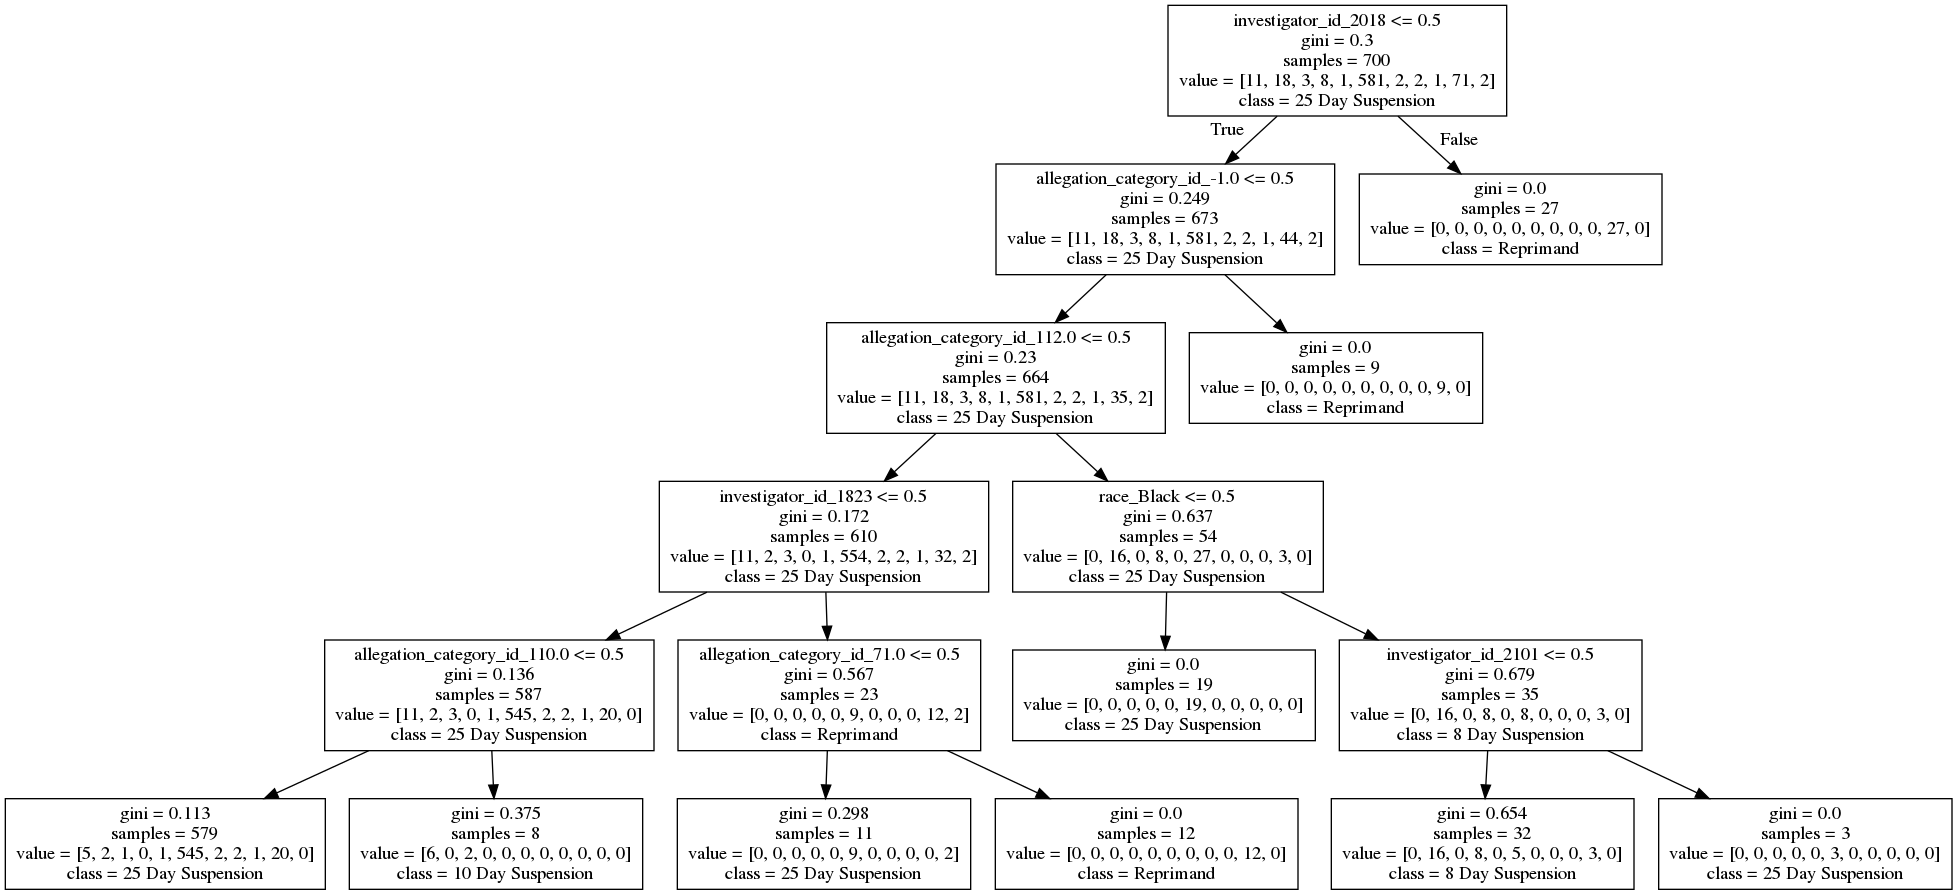
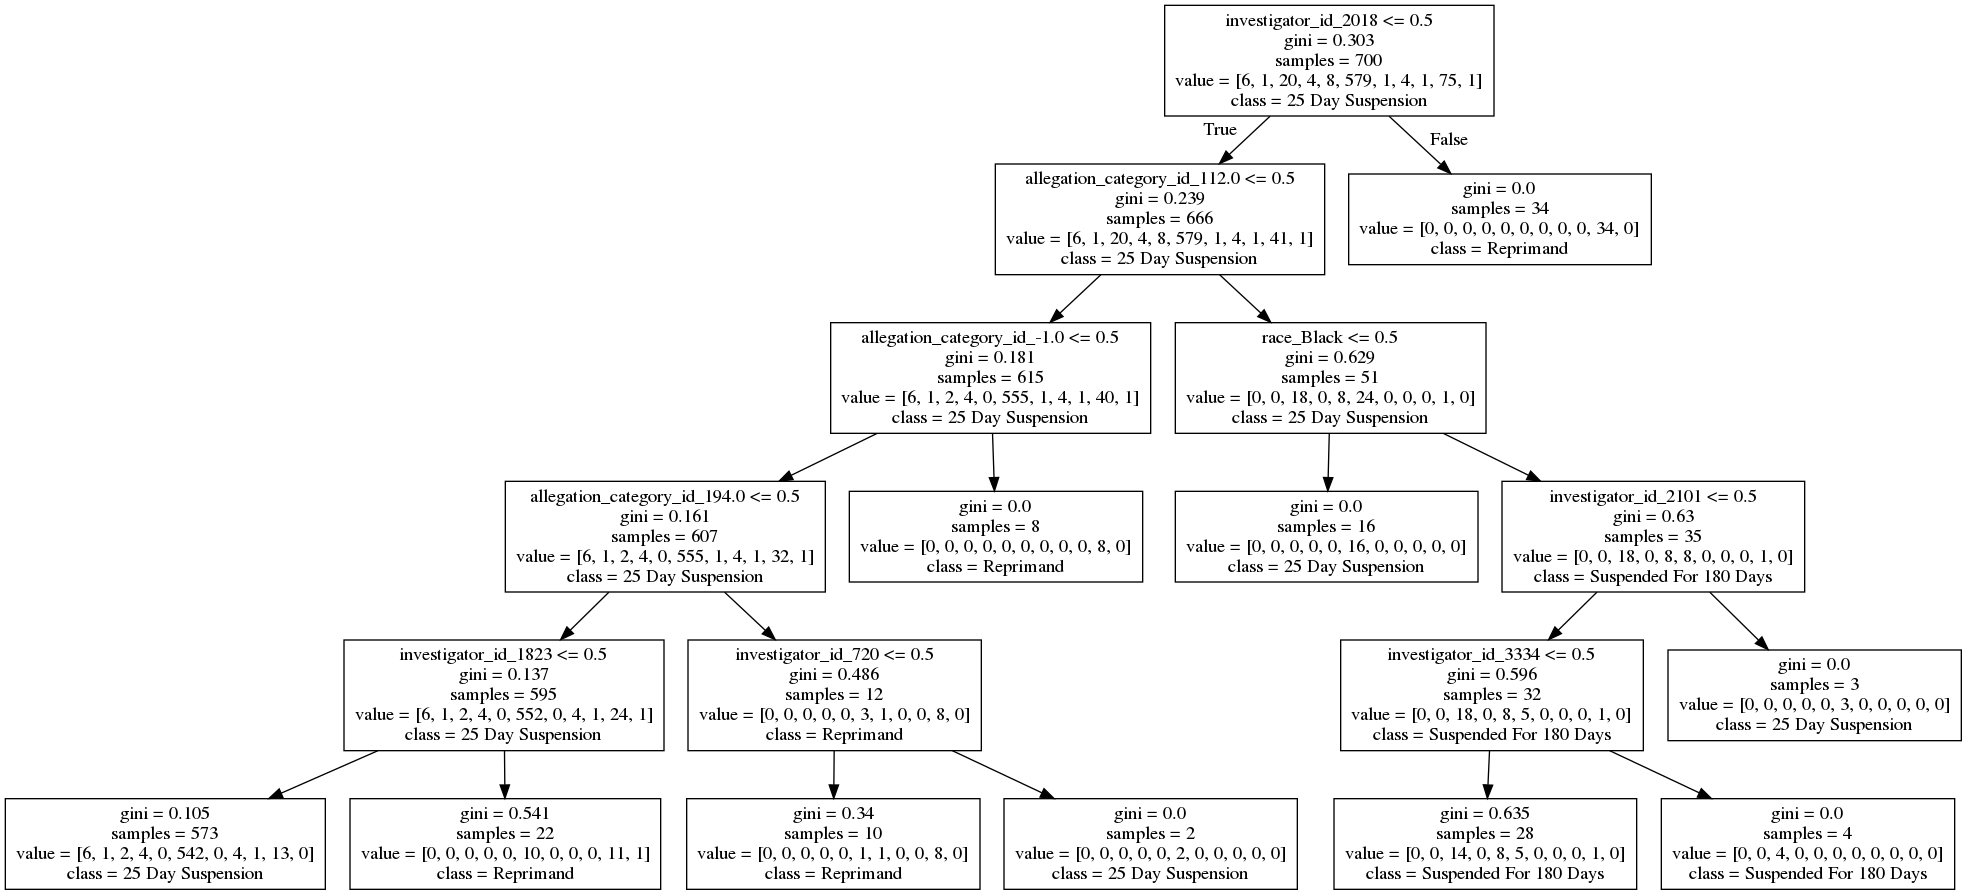
nothing important

diff --git a/checkpoint5/code/question2.py b/checkpoint5/code/question2.py
@@ -36,7 +36,6 @@ final_outcome_list = ['10 Day Suspension', '8 Day Suspension', 'Suspended For 18
 most_frequent_investigators_index = data['investigator_id'].value_counts().index[:1000]
 data = data.iloc[most_frequent_investigators_index]
 final_data = pd.get_dummies(data, columns=['race', 'allegation_category_id', 'investigator_id'])
-print(final_data.columns)
 final_data = final_data.fillna(0)
 train, test = train_test_split(final_data, test_size= 0.3)
 X_train = train.drop(columns=['allegation_id', 'final_outcome','current_star'])
@@ -91,3 +90,54 @@ graph = pydotplus.graph_from_dot_data(dot_data)
 Image(graph.create_png())
 # Create PNG
 graph.write_png("../visualization/tree_vis_question2.png")
+
+
+
+####delete No Action Taken and Unknown rows
+print("\n\ndelete No Action Taken and Unknown rows and do another test\n\n")
+data = pd.read_csv("../data/data_question2.csv")
+data['race'] = data['race'].fillna("lost")
+data['final_outcome'] = data['final_outcome'].fillna("Unknown")
+data['allegation_category_id'] = data['allegation_category_id'].fillna(-1)
+data['investigator_id'] = data['investigator_id'].fillna(-1)
+data = data[(data['final_outcome'] != 'Unknown') & (data['final_outcome']!= 'No Action Taken')]
+
+most_frequent_investigators_index = data['investigator_id'].value_counts().index[:1000]
+data = data.iloc[most_frequent_investigators_index]
+final_data = pd.get_dummies(data, columns=['race', 'allegation_category_id', 'investigator_id'])
+print(final_data.columns)
+final_data = final_data.fillna(0)
+train, test = train_test_split(final_data, test_size= 0.3)
+X_train = train.drop(columns=['allegation_id', 'final_outcome','current_star'])
+Y_train = train['final_outcome']
+X_test = test.drop(columns=['allegation_id',  'final_outcome','current_star'])
+Y_test = test['final_outcome']
+
+
+#we have tested it that we can achieve ~90% final outcome prediction accuracy using race, allegation category and investigator id
+# estimators = [10, 20, 30, 40, 50, 60, 70, 80]
+# for i in estimators:
+clf = DecisionTreeClassifier(random_state=10, max_depth=100)
+#clf = RandomForestClassifier(random_state= 10, n_estimators=20)
+clf.fit(X_train, Y_train)
+prediction = clf.predict(X_test)
+print("disciplinary action prediction scores with 'race', 'allegation_category_id' and 'investigator_id' are :")
+print("training accuracy score is {}".format(clf.score(X_train, Y_train)))
+print("accuracy is {}, F1 score is {}".format(accuracy_score(prediction, Y_test), f1_score(prediction, Y_test, average='weighted', zero_division=True)))
+print("precision score is {}, recall score is {}".format(precision_score(prediction, Y_test, average='weighted', zero_division=True),recall_score(prediction, Y_test, average='weighted', zero_division=True)))
+print("\n")
+#print(prediction, Y_test)
+columns = final_data.drop(columns=['allegation_id', 'final_outcome','current_star']).columns
+importances = clf.feature_importances_
+
+#race, allegation_type, and investigator. sum them up
+feature_importance = [0,0,0]
+for i in range(len(columns)):
+    if('race' in columns[i]):
+        feature_importance[0] += importances[i]
+    elif('allegation' in columns[i]):
+        feature_importance[1] += importances[i]
+    else:
+        feature_importance[2] += importances[i]
+
+print(feature_importance)
